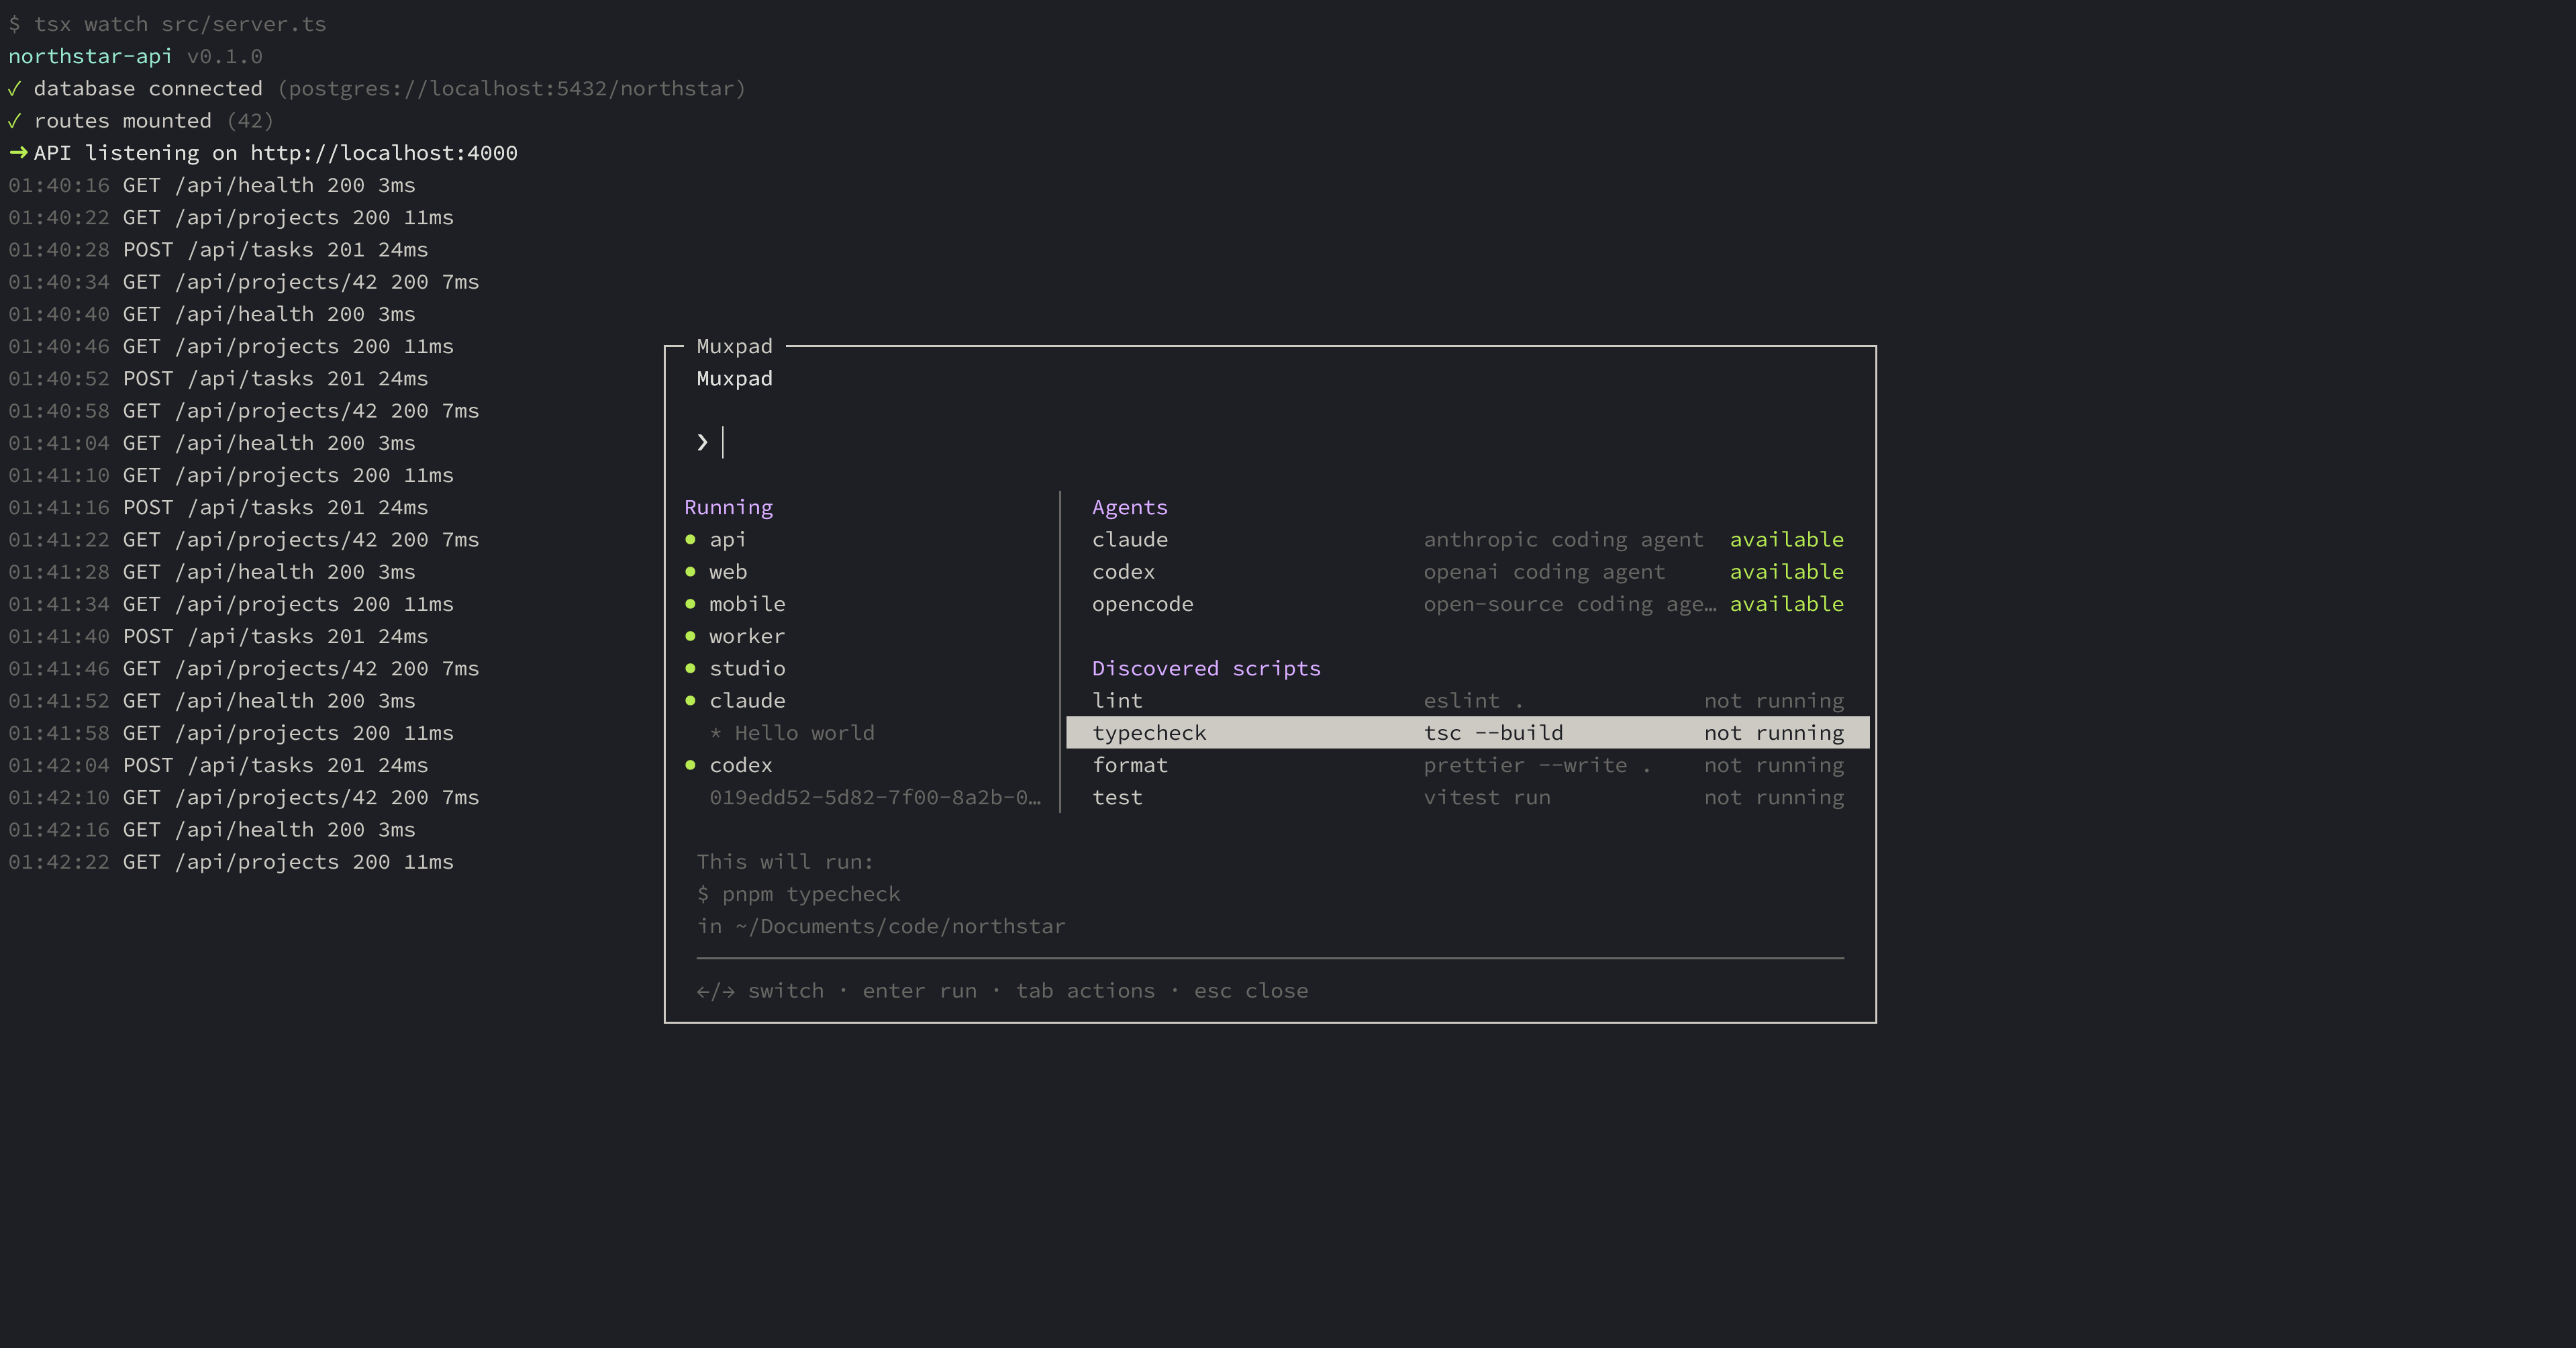
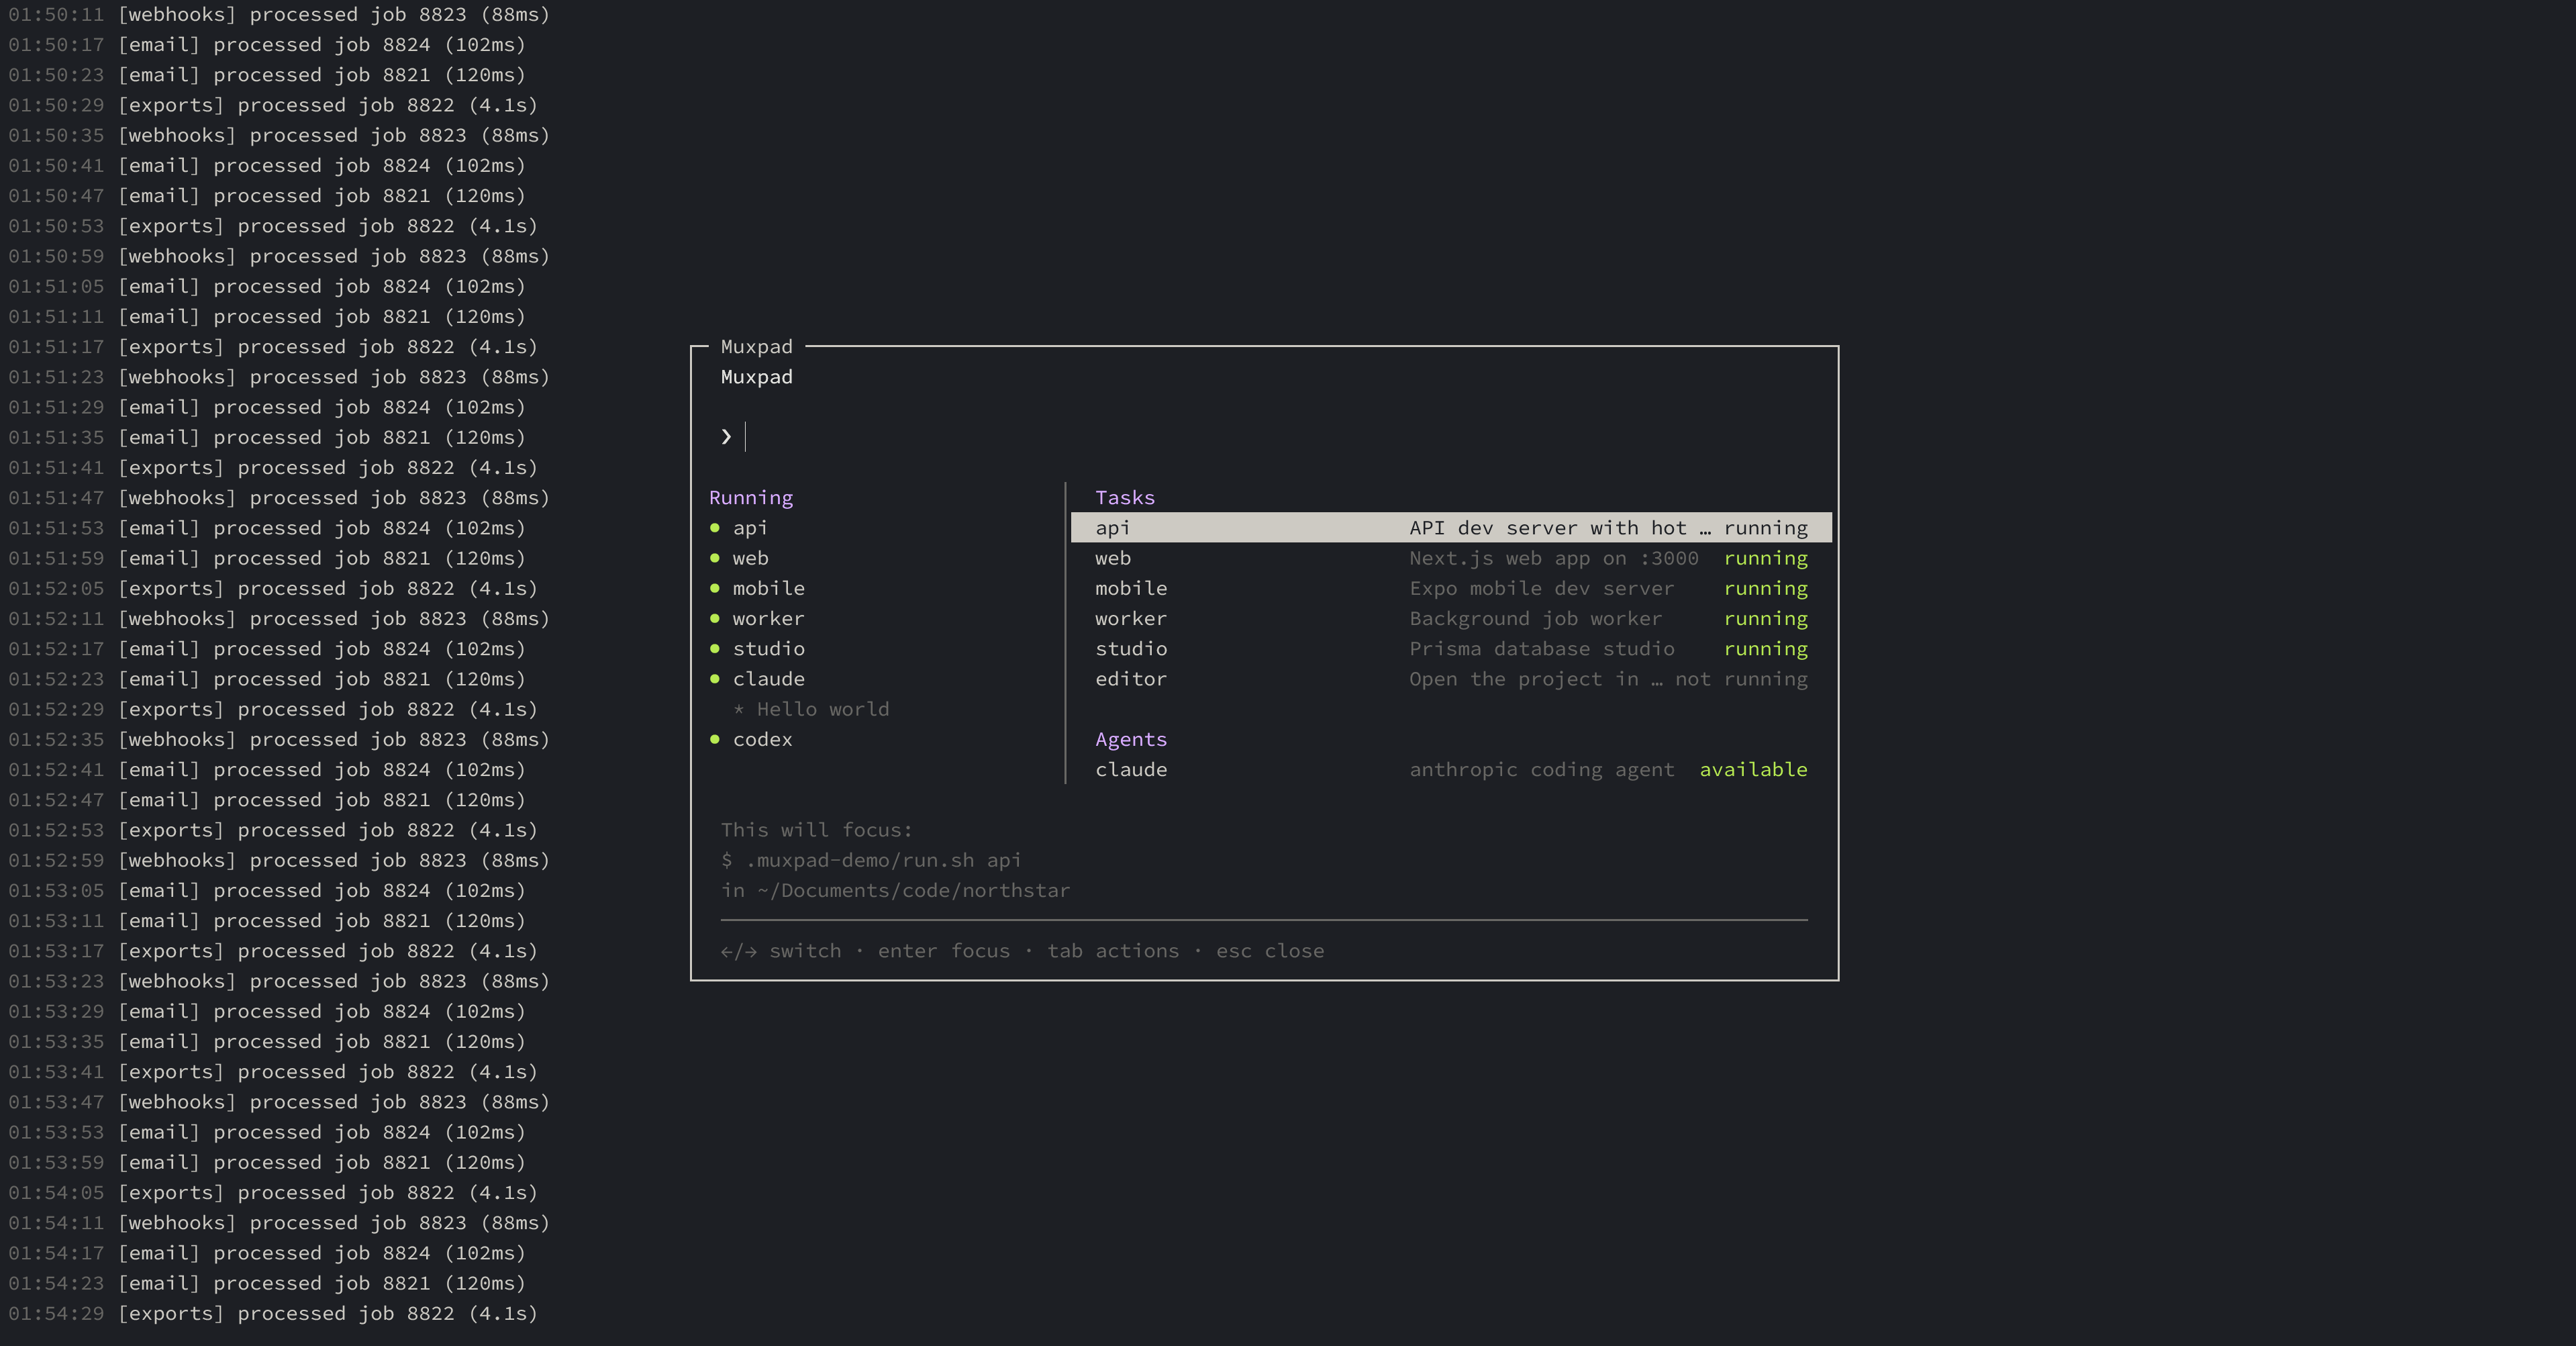
feat(palette): detect external coding agents
Discover interactive Claude and Codex process trees in unmanaged tmux panes when the palette opens.

diff --git a/lib/muxpad/agent_discovery.rb b/lib/muxpad/agent_discovery.rb
@@ -1,0 +1,85 @@
+# frozen_string_literal: true
+
+require "open3"
+require "shellwords"
+
+module Muxpad
+  class AgentDiscovery
+    ProcessInfo = Data.define(:pid, :parent_pid, :command, :arguments)
+
+    CODEX_NONINTERACTIVE = %w[app app-server apply archive cloud completion debug delete doctor exec
+                              mcp mcp-server plugin remote-control sandbox unarchive update].freeze
+    OPTIONS_WITH_VALUES = %w[-a --ask-for-approval -C --cd -c --config -i --image -m --model
+                             -p --profile -s --sandbox --add-dir --disable --enable --remote
+                             --remote-auth-token-env].freeze
+
+    def initialize(capture: nil)
+      @capture = capture || -> { Open3.capture3("ps", "-A", "-ww", "-o", "pid=,ppid=,comm=,args=") }
+    end
+
+    def detect(panes)
+      processes = process_table
+      return {} if processes.empty?
+      children = processes.values.group_by(&:parent_pid)
+      panes.filter_map do |pane|
+        provider = detect_tree(pane.pid.to_i, processes, children)
+        [pane.id, provider] if provider
+      end.to_h
+    rescue SystemCallError, IOError
+      {}
+    end
+
+    private
+
+    def process_table
+      stdout, _, status = @capture.call
+      return {} unless status.success?
+      stdout.lines(chomp: true).filter_map do |line|
+        match = line.match(/\A\s*(\d+)\s+(\d+)\s+(\S+)\s+(.*)\z/)
+        next unless match
+        process = ProcessInfo.new(pid: match[1].to_i, parent_pid: match[2].to_i,
+                                  command: File.basename(match[3]), arguments: match[4])
+        [process.pid, process]
+      end.to_h
+    end
+
+    def detect_tree(root_pid, processes, children)
+      queue = [root_pid]
+      until queue.empty?
+        pid = queue.shift
+        process = processes[pid]
+        return "claude" if process && claude?(process)
+        return "codex" if process && codex?(process)
+        queue.concat(children.fetch(pid, []).map(&:pid))
+      end
+      nil
+    end
+
+    def claude?(process)
+      process.command == "claude" && !process.arguments.match?(/(?:\A|\s)(?:-p|--print)(?:\s|=|\z)/)
+    end
+
+    def codex?(process)
+      arguments = Shellwords.split(process.arguments)
+      executable = if process.command == "codex"
+        arguments.index { |argument| File.basename(argument) == "codex" } || 0
+      elsif %w[node MainThread].include?(process.command)
+        arguments.index { |argument| argument.end_with?("/@openai/codex/bin/codex.js") }
+      end
+      return false unless executable
+      !CODEX_NONINTERACTIVE.include?(first_codex_argument(arguments.drop(executable + 1)))
+    rescue ArgumentError
+      false
+    end
+
+    def first_codex_argument(arguments)
+      index = 0
+      while index < arguments.length
+        argument = arguments[index]
+        return argument unless argument.start_with?("-")
+        index += OPTIONS_WITH_VALUES.include?(argument) && !argument.include?("=") ? 2 : 1
+      end
+      nil
+    end
+  end
+end

diff --git a/test/agent_discovery_test.rb b/test/agent_discovery_test.rb
@@ -1,0 +1,54 @@
+# frozen_string_literal: true
+
+require_relative "test_helper"
+
+class AgentDiscoveryTest < MuxpadTest
+  Pane = Data.define(:id, :pid)
+  Status = Data.define(:ok) do
+    def success? = ok
+  end
+
+  def test_detects_interactive_claude_and_node_wrapped_codex_descendants
+    discovery = discovery_for(<<~PS)
+      100 1 zsh zsh
+      101 100 claude /home/me/.local/bin/claude
+      200 1 zsh zsh
+      201 200 MainThread node /opt/node_modules/@openai/codex/bin/codex.js -c tui.theme=dark
+      202 201 codex /opt/codex -c tui.theme=dark
+    PS
+
+    assert_equal({ "%1" => "claude", "%2" => "codex" },
+                 discovery.detect([Pane.new(id: "%1", pid: "100"), Pane.new(id: "%2", pid: "200")]))
+  end
+
+  def test_detects_resumed_codex_after_global_options
+    discovery = discovery_for("300 1 codex /opt/codex -c model=gpt-5 resume abc123\n")
+
+    assert_equal({ "%3" => "codex" }, discovery.detect([Pane.new(id: "%3", pid: "300")]))
+  end
+
+  def test_ignores_noninteractive_and_unrelated_processes
+    discovery = discovery_for(<<~PS)
+      100 1 claude /opt/claude --print hello
+      200 1 codex /opt/codex app-server
+      300 1 node node server.js
+      400 1 codex /opt/codex exec run-tests
+      500 1 node node server.js codex
+    PS
+
+    panes = [100, 200, 300, 400, 500].map { |pid| Pane.new(id: "%#{pid}", pid: pid.to_s) }
+    assert_empty discovery.detect(panes)
+  end
+
+  def test_returns_nothing_when_ps_fails
+    discovery = Muxpad::AgentDiscovery.new(capture: -> { ["", "denied", Status.new(ok: false)] })
+
+    assert_empty discovery.detect([Pane.new(id: "%1", pid: "100")])
+  end
+
+  private
+
+  def discovery_for(output)
+    Muxpad::AgentDiscovery.new(capture: -> { [output, "", Status.new(ok: true)] })
+  end
+end

diff --git a/test/application_test.rb b/test/application_test.rb
@@ -36,6 +36,14 @@ class ApplicationTest < MuxpadTest
     end
   end
 
+  class StaticAgentDiscovery
+    def initialize(detected)
+      @detected = detected
+    end
+
+    def detect(_panes) = @detected
+  end
+
   def test_declining_inside_tmux_switch_does_not_create_or_change_target
     project = File.join(@tmp, "project")
     FileUtils.mkdir_p(project)
@@ -100,7 +108,8 @@ class ApplicationTest < MuxpadTest
     app = Muxpad::Application.new
     pane = Muxpad::Pane.new(id: "%1", session: "work", window: "@1", window_index: "1",
                             kind: "agent", definition_id: "codex", name: "codex", dead: false,
-                            finished: false, current_command: "codex", title: "  Fix   flaky tests  ")
+                            finished: false, current_command: "codex", title: "  Fix   flaky tests  ",
+                            pid: "100", current_path: "/work")
 
     assert_equal "Fix flaky tests", app.send(:agent_summary, pane)
     assert_nil app.send(:agent_summary, pane.with(title: "Codex"))
@@ -115,7 +124,8 @@ class ApplicationTest < MuxpadTest
     FileUtils.mkdir_p(project)
     pane = Muxpad::Pane.new(id: "%1", session: "work", window: "@1", window_index: "1",
                             kind: "task", definition_id: "server", name: "Server", dead: false,
-                            finished: false, current_command: "sleep", title: "Server")
+                            finished: false, current_command: "sleep", title: "Server", pid: "100",
+                            current_path: project)
     tmux = InsideTmux.new(panes: [pane], project_context: "work")
     app = Muxpad::Application.new(config: config_for(project), tmux:)
 
@@ -126,6 +136,25 @@ class ApplicationTest < MuxpadTest
     assert_equal ["Tasks", "running", :running], [launch.section, launch.state, launch.state_kind]
     assert_equal ["Running", "Server", "window 1 · sleep"],
                  [running.section, running.name, running.description]
+  end
+
+  def test_unmanaged_detected_agent_appears_as_a_numbered_running_instance
+    managed = Muxpad::Pane.new(id: "%1", session: "work", window: "@1", window_index: "1",
+                               kind: "agent", definition_id: "codex", name: "codex", dead: false,
+                               finished: false, current_command: "node", title: "Codex", pid: "100",
+                               current_path: "/work")
+    unmanaged = Muxpad::Pane.new(id: "%2", session: "work", window: "@2", window_index: "2",
+                                 kind: "", definition_id: "", name: "", dead: false, finished: false,
+                                 current_command: "node", title: "Investigate timeout", pid: "200",
+                                 current_path: "/work")
+    tmux = InsideTmux.new(panes: [managed, unmanaged])
+    discovery = StaticAgentDiscovery.new("%2" => "codex")
+    app = Muxpad::Application.new(tmux:, agent_discovery: discovery)
+
+    item = app.send(:palette_items, "work").find { |candidate| candidate.token == "running:%2" }
+
+    assert_equal ["Running", "codex 2", "external agent · window 2", "Investigate timeout"],
+                 [item.section, item.name, item.description, item.summary]
   end
 
   private

diff --git a/lib/muxpad/application.rb b/lib/muxpad/application.rb
@@ -10,11 +10,13 @@ module Muxpad
     # but the palette routes them into its sidebar rather than this list.
     SECTION_ORDER = ["Tasks", "Agents", "Discovered scripts"].freeze
 
-    def initialize(config: Config.new, tmux: Tmux.new, discovery: Discovery.new, palette: Palette.new,
+    def initialize(config: Config.new, tmux: Tmux.new, discovery: Discovery.new, agent_discovery: AgentDiscovery.new,
+                   palette: Palette.new,
                    input: $stdin, output: $stdout)
       @config = config
       @tmux = tmux
       @discovery = discovery
+      @agent_discovery = agent_discovery
       @palette = palette
       @input = input
       @output = output
@@ -162,6 +164,7 @@ module Muxpad
       panes.select { |pane| pane.kind == "agent" && !pane.done? }.each do |pane|
         items << running_item(pane, "window #{pane.window_index} · #{pane.current_command}")
       end
+      items.concat(discovered_agent_items(panes))
       panes.select { |pane| pane.kind == "script" && !pane.done? && !scripts.key?(pane.definition_id) }.each do |pane|
         items << running_item(pane, "removed package script · window #{pane.window_index}")
       end
@@ -290,6 +293,22 @@ module Muxpad
       generic = [pane.name, pane.definition_id, "Claude Code", "Codex", "New thread"]
       codex_id = pane.definition_id == "codex" && title.match?(/\A(?:thread\s+)?[0-9a-f]{8}(?:-[0-9a-f]{4}){3}-[0-9a-f]{12}\z/i)
       title unless title.empty? || codex_id || generic.any? { |value| title.casecmp?(value) }
+    end
+
+    def discovered_agent_items(panes)
+      unmanaged = panes.select { |pane| pane.kind.empty? && !pane.done? && pane.pid.to_i.positive? }
+      detected = @agent_discovery.detect(unmanaged)
+      used_names = panes.filter_map { |pane| pane.name if pane.kind == "agent" }
+      unmanaged.filter_map do |pane|
+        provider = detected[pane.id]
+        next unless provider
+        instance = 1
+        instance += 1 while used_names.include?(agent_instance_name(provider, instance))
+        name = agent_instance_name(provider, instance)
+        used_names << name
+        adopted = pane.with(kind: "agent", definition_id: provider, name:)
+        running_item(adopted, "external agent · window #{pane.window_index}")
+      end
     end
 
     def confirm_switch(session)

diff --git a/lib/muxpad/tmux.rb b/lib/muxpad/tmux.rb
@@ -4,14 +4,14 @@ require "open3"
 require "shellwords"
 
 module Muxpad
-  Pane = Data.define(:id, :session, :window, :window_index, :kind, :definition_id, :name, :dead, :finished, :current_command, :title) do
+  Pane = Data.define(:id, :session, :window, :window_index, :kind, :definition_id, :name, :dead, :finished, :current_command, :title, :pid, :current_path) do
     # A managed command has run to completion when its pane is a dropped-to
     # shell (finished) or a retained corpse (dead).
     def done? = dead || finished
   end
 
   class Tmux
-    FORMAT = ['#{pane_id}', '#{session_name}', '#{window_id}', '#{window_index}', '#{@muxpad_kind}', '#{@muxpad_id}', '#{@muxpad_name}', '#{pane_dead}', '#{@muxpad_finished}', '#{pane_current_command}', '#{pane_title}'].join("\t")
+    FORMAT = ['#{pane_id}', '#{session_name}', '#{window_id}', '#{window_index}', '#{@muxpad_kind}', '#{@muxpad_id}', '#{@muxpad_name}', '#{pane_dead}', '#{@muxpad_finished}', '#{pane_current_command}', '#{pane_title}', '#{pane_pid}', '#{pane_current_path}'].join("\t")
 
     def initialize
       @prefix = [ENV.fetch("MUXPAD_TMUX", "tmux")]
@@ -71,8 +71,8 @@ module Muxpad
       output = capture("list-panes", "-s", "-t", session, "-F", FORMAT)
       output.lines(chomp: true).filter_map do |line|
         fields = line.split("\t", -1)
-        next if fields.length < 11
-        Pane.new(id: fields[0], session: fields[1], window: fields[2], window_index: fields[3], kind: fields[4], definition_id: fields[5], name: fields[6], dead: fields[7] == "1", finished: fields[8] == "1", current_command: fields[9], title: fields[10])
+        next if fields.length < 13
+        Pane.new(id: fields[0], session: fields[1], window: fields[2], window_index: fields[3], kind: fields[4], definition_id: fields[5], name: fields[6], dead: fields[7] == "1", finished: fields[8] == "1", current_command: fields[9], title: fields[10], pid: fields[11], current_path: fields[12])
       end
     end
 

diff --git a/lib/muxpad.rb b/lib/muxpad.rb
@@ -3,6 +3,7 @@
 require_relative "muxpad/error"
 require_relative "muxpad/config"
 require_relative "muxpad/discovery"
+require_relative "muxpad/agent_discovery"
 require_relative "muxpad/tmux"
 require_relative "muxpad/palette"
 require_relative "muxpad/application"

diff --git a/README.md b/README.md
@@ -136,7 +136,9 @@ override or disable one:
 
 When Claude Code or Codex publishes a thread title to the terminal, Muxpad shows
 it beneath the running instance in the sidebar. Missing titles are simply
-omitted.
+omitted. Interactive Claude Code and Codex processes launched directly in a
+tmux pane are detected when the palette opens, even when Muxpad did not launch
+them.
 
 ```yaml
 agents: